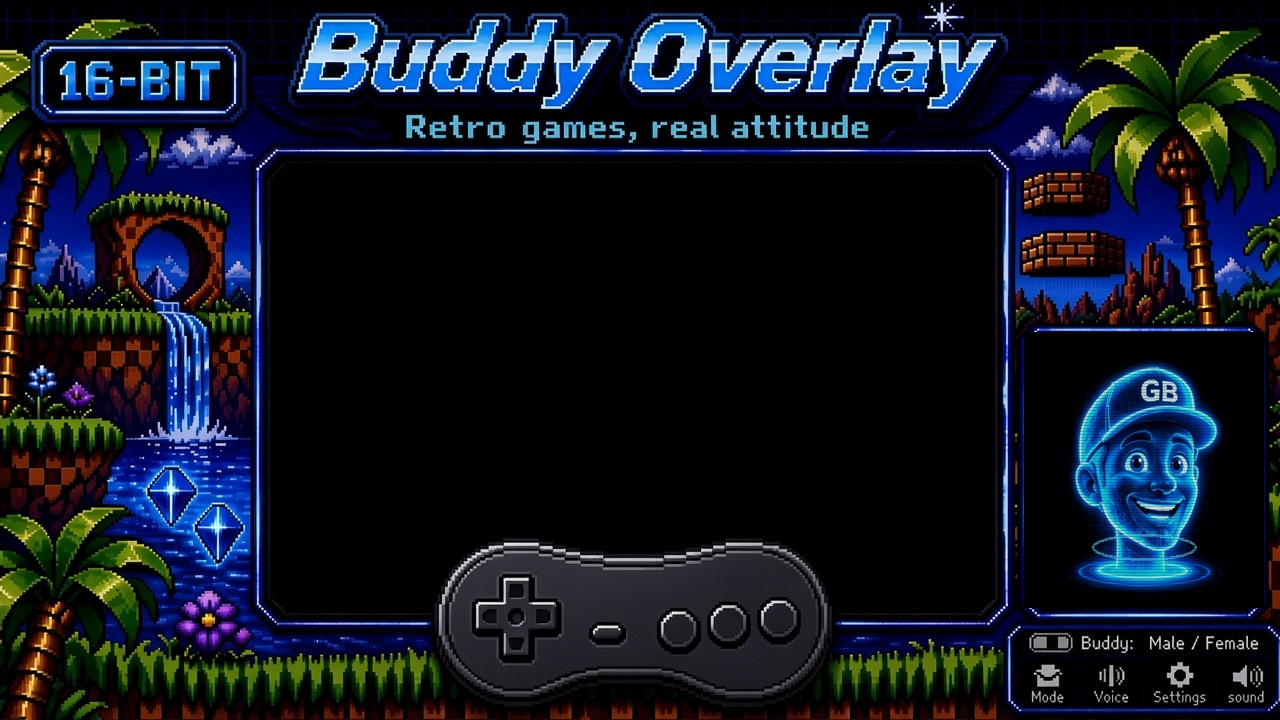
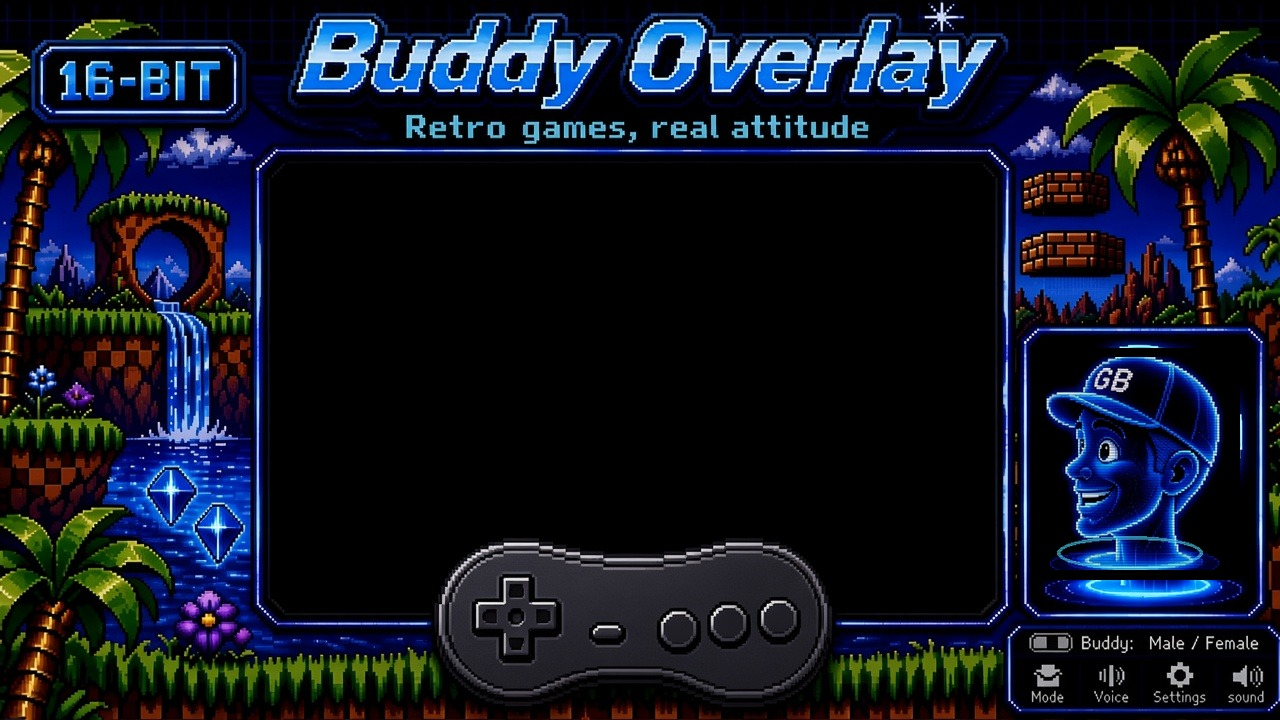
Keep Buddy's rest pose facing left and the portrait bezel visible.
The live head was a front view on a black square that covered the frame. Rest now uses the left profile cut from the approved SNES art, and the head is composited inside the inner well so the bezel stays.

Changed region(s): [[0.7812, 0.4583, 1.0, 0.8556]]

diff --git a/backend/overlay_app.py b/backend/overlay_app.py
@@ -9,9 +9,9 @@ from __future__ import annotations
 import os
 from pathlib import Path
 
-from PIL import Image, ImageDraw
+from PIL import Image
 
-from .frame_library import frame_record, punch_screen, scaled_box, scaled_screen
+from .frame_library import frame_record, paste_head, punch_screen, scaled_box, scaled_screen
 
 
 def chroma_key(image, key=(255, 0, 255, 255)):
@@ -29,15 +29,10 @@ def chroma_key(image, key=(255, 0, 255, 255)):
 
 
 def _prepared_frame(frame_id: str) -> Image.Image:
+    """Punch the game window only. The portrait bezel stays in the art."""
     record = frame_record(frame_id)
     source = Image.open(Path(__file__).resolve().parents[1] / "assets" / "frames" / record["file"])
-    image = punch_screen(source, record["screen"])
-    buddy = record["buddy"]
-    ImageDraw.Draw(image).rectangle(
-        [buddy["x"], buddy["y"], buddy["x"] + buddy["width"] - 1, buddy["y"] + buddy["height"] - 1],
-        fill=(0, 0, 0, 255),
-    )
-    return image
+    return punch_screen(source, record["screen"])
 
 
 def run_overlay(session) -> None:
@@ -54,10 +49,9 @@ def run_overlay(session) -> None:
     root.overrideredirect(True)
     root.geometry("1280x720+40+40")
 
-    holder = {"photo": None, "head": None, "frame": None}
+    holder = {"photo": None, "base": None}
     background = tk.Label(root, bd=0, bg="magenta")
     background.place(x=0, y=0, relwidth=1, relheight=1)
-    head_label = tk.Label(root, bd=0, bg="#000000")
 
     button_style = {
         "bg": "#12121a", "fg": "#f4f4f4", "activebackground": "#2c2c3a",
@@ -124,10 +118,7 @@ def run_overlay(session) -> None:
         width = max(root.winfo_width(), 1)
         height = max(root.winfo_height(), 1)
         frame_id = session.theme if session.theme in {"nes", "snes", "genesis"} else "genesis"
-        buddy = scaled_box(frame_id, "buddy", (width, height))
         menu_box = scaled_box(frame_id, "menu", (width, height))
-        if buddy:
-            head_label.place(x=buddy[0], y=buddy[1], width=buddy[2], height=buddy[3])
         if menu_box:
             menu.place(x=menu_box[0], y=menu_box[1], width=menu_box[2], height=menu_box[3])
             menu.lift()
@@ -136,26 +127,34 @@ def run_overlay(session) -> None:
         frame_id = session.theme if session.theme in {"nes", "snes", "genesis"} else "genesis"
         image = _prepared_frame(frame_id)
         image = image.resize((max(root.winfo_width(), 2), max(root.winfo_height(), 2)))
+        holder["base"] = image
+        _paint()
+
+    def _paint():
+        base = holder.get("base")
+        if base is None:
+            return
+        hud = session.hud()
+        expression = hud["expression"]
+        mouth = hud["mouth"] if hud["mouth"] else (0.55 if expression == "talk" else 0.0)
+        frame_id = session.theme if session.theme in {"nes", "snes", "genesis"} else "genesis"
+        buddy = scaled_box(frame_id, "buddy", base.size)
+        head = render_hologram(
+            expression, t=session.clock.mono(), mouth=mouth, gaze=hud["gaze"],
+            size=max(buddy[2], buddy[3], 64) if buddy else 64,
+            character=hud.get("buddy_character", "male"),
+            resting=hud.get("resting_direction", "left"),
+            from_expression=hud.get("from_expression"), blend=hud.get("expression_blend", 1.0),
+        )
+        frame = paste_head(base, head, {"x": buddy[0], "y": buddy[1], "width": buddy[2], "height": buddy[3]}) if buddy else base
         if os.name == "nt":
-            image = chroma_key(image)
-        holder["frame"] = image
-        holder["photo"] = ImageTk.PhotoImage(image)
+            frame = chroma_key(frame)
+        holder["photo"] = ImageTk.PhotoImage(frame)
         background.configure(image=holder["photo"])
 
     def animate():
         session.tick_animation()
-        hud = session.hud()
-        expression = hud["expression"]
-        mouth = hud["mouth"] if hud["mouth"] else (0.55 if expression == "talk" else 0.0)
-        width = max(head_label.winfo_width(), 64)
-        head = render_hologram(
-            expression, t=session.clock.mono(), mouth=mouth, gaze=hud["gaze"],
-            size=max(width, 64), character=hud.get("buddy_character", "male"),
-            resting=hud.get("resting_direction", "left"),
-            from_expression=hud.get("from_expression"), blend=hud.get("expression_blend", 1.0),
-        )
-        holder["head"] = ImageTk.PhotoImage(head)
-        head_label.configure(image=holder["head"])
+        _paint()
         if session.theme != holder.get("shown"):
             holder["shown"] = session.theme
             redraw_frame()

diff --git a/backend/hologram.py b/backend/hologram.py
@@ -1,9 +1,9 @@
 """Buddy's hologram, drawn from Chris's GB-cap sprite sheets.
 
 Yaw is -1 (strong left, toward the game) through 0 (camera) to +1 (strong right).
-Idle sweeps back and forth around the resting direction. Talking and reactions
-turn him toward the camera. Turns cross-fade between sheets and add a little
-squash, skew, and pedestal parallax so the motion reads as a head turn.
+The default rest is a left profile toward the game window. It stays there while
+idle. Only talking turns the head to face the viewer. Turns cross-fade between
+sheets and add a little squash, skew, and pedestal parallax.
 """
 from __future__ import annotations
 
@@ -54,19 +54,16 @@ def normalize_resting(value: str | None) -> str | None:
 
 
 def yaw_at(t: float, expression: str, resting: str = "left", gaze: str = "center") -> float:
-    """Where the head should point. Reactions face the camera. Idle sweeps."""
-    sweep = math.sin(t * 0.55)
+    """Rest stays in profile. Only talking turns the head toward the viewer."""
+    if expression == "talk":
+        return 0.0
+    drift = 0.05 * math.sin(t * 0.65)
     if resting == "right":
-        idle = 0.2 + sweep * 0.8
-    elif resting == "center":
-        idle = sweep * 0.85
-    else:
-        idle = -0.2 + sweep * 0.8
-    gaze_bias = {"left": -0.12, "right": 0.12}.get(gaze, 0.0)
-    if expression in {"idle", "blink"}:
-        return max(-1.0, min(1.0, idle + gaze_bias))
-    # Face the player while talking or reacting, with a hint of the sweep.
-    return max(-1.0, min(1.0, idle * 0.12 + gaze_bias * 0.25))
+        return min(1.0, 0.9 + drift)
+    if resting == "center":
+        return drift
+    # Left rest is a three-quarter/side profile toward the game, not a front view.
+    return max(-1.0, min(-0.82, -0.92 + drift))
 
 
 def _smooth(value: float) -> float:
@@ -94,9 +91,13 @@ def _pose_sprite(character: str, expression: str, yaw: float, mouth: float) -> I
     side_expr = art.left_expr if yaw < 0 else art.right_expr
     base = _blend_pair(side_turns, magnitude)
     name = _FRONT.get(expression, "neutral")
+    if expression != "talk" and yaw <= -0.75 and art.rest_left is not None:
+        if expression in {"laugh", "shocked", "celebrate"} and name in side_expr:
+            return side_expr[name]
+        return art.rest_left
     if expression == "talk":
-        opened = side_expr["talk"] if magnitude > 0.38 else art.front["talk"]
-        closed = base if magnitude > 0.38 else art.front["neutral"]
+        opened = art.front["talk"]
+        closed = art.front["neutral"]
         level = max(0.0, min(1.0, (mouth - 0.12) / 0.55))
         return Image.blend(closed, opened, level)
     if name in TURN_EXPRESSIONS and magnitude > 0.38 and name in side_expr:
@@ -234,8 +235,10 @@ def _compose(expression: str, t: float, mouth: float, gaze: str, size: int,
              character: str, resting: str) -> Image.Image:
     yaw = yaw_at(t, expression, resting, gaze)
     sprite = _pose_sprite(character, expression, yaw, mouth)
-    sprite = _squash_skew(sprite, yaw)
-    sprite = _parallax(sprite, yaw, t)
+    # The frame cutout is already a side profile. Squash and parallax pull it back toward center.
+    if expression == "talk" or yaw > -0.75:
+        sprite = _squash_skew(sprite, yaw)
+        sprite = _parallax(sprite, yaw, t)
     sprite = _blink(sprite, _blink_amount(t, expression))
     bob = math.sin(t * 1.7) * size * 0.015
     sway = math.sin(t * 0.8) * size * 0.012

diff --git a/tests/test_frames.py b/tests/test_frames.py
@@ -59,6 +59,62 @@ def test_sheets_split_and_turns_keep_gb_readable():
     assert male.right_turns[-1][0] == 1.0
 
 
+def test_approved_composite_keeps_the_bezel():
+    import numpy as np
+    from backend.frame_library import FRAME_DIR, FRAME_FILES, PLACEMENTS, paste_head
+    for frame_id, filename in FRAME_FILES.items():
+        source = Image.open(FRAME_DIR / filename).convert("RGBA")
+        box = PLACEMENTS[frame_id]["buddy"]
+        rest = render_hologram("idle", t=0.4, mouth=0.0, size=280, character="male", resting="left")
+        talk = render_hologram("talk", t=0.4, mouth=0.9, size=280, character="male", resting="left")
+        src = np.asarray(source)
+        mask = np.ones(src.shape[:2], dtype=bool)
+        mask[box["y"]:box["y"] + box["height"], box["x"]:box["x"] + box["width"]] = False
+        for head in (rest, talk):
+            composed = np.asarray(paste_head(source, head, box))
+            assert np.array_equal(src[mask], composed[mask])
+        assert np.asarray(paste_head(source, talk, box)).tobytes() != src.tobytes()
+    # The old SNES box covered this bezel pixel. It has to stay outside the well.
+    snes_box = PLACEMENTS["snes"]["buddy"]
+    assert snes_box["x"] + snes_box["width"] <= 1236
+    assert snes_box["y"] + snes_box["height"] <= 576
+    snes = Image.open(FRAME_DIR / "snes-sky-kingdom.jpg").convert("RGBA")
+    talk = render_hologram("talk", t=0.4, mouth=0.9, size=280, character="male", resting="left")
+    assert paste_head(snes, talk, snes_box).getpixel((1244, 360)) == snes.getpixel((1244, 360))
+
+
+def test_rest_pose_faces_left_until_talking():
+    from backend.hologram import _pose_sprite, yaw_at
+    from backend.hologram_art import frame_rest_pose, get_art
+    for t in (0.0, 0.4, 1.1, 2.2, 3.5, 5.0):
+        assert yaw_at(t, "idle", "left") <= -0.8
+        assert yaw_at(t, "smile", "left") <= -0.8
+        assert abs(yaw_at(t, "talk", "left")) <= 0.05
+    profile = frame_rest_pose()
+    # Male rest is the left profile cut from the approved frame, not the front sheet.
+    assert _pose_sprite("male", "idle", yaw_at(0.3, "idle", "left"), 0).tobytes() == profile.tobytes()
+    assert profile.tobytes() != get_art("male").front["neutral"].tobytes()
+    assert _cap_text_present(profile)
+    female_rest = get_art("female").rest_left
+    assert female_rest.tobytes() != get_art("female").front["neutral"].tobytes()
+    assert _cap_text_present(female_rest)
+    rest = render_hologram("idle", t=0.3, mouth=0.0, size=140, character="male", resting="left")
+    talking = render_hologram("talk", t=0.3, mouth=0.9, size=140, character="male", resting="left")
+    assert rest.tobytes() != talking.tobytes()
+
+
+def _cap_text_present(image) -> bool:
+    import numpy as np
+    array = np.asarray(image.convert("RGBA"))
+    bright = (
+        (array[:, :, 3] > 180)
+        & (array[:, :, 0] > 170)
+        & (array[:, :, 1] > 170)
+        & (array[:, :, 2] > 190)
+    )
+    return int(bright.sum()) > 40
+
+
 def test_hologram_expressions_are_distinct_and_stable():
     idle = render_hologram("idle", t=0.2, mouth=0.0, size=96, character="male", resting="left")
     again = render_hologram("idle", t=0.2, mouth=0.0, size=96, character="male", resting="left")

diff --git a/backend/frame_library.py b/backend/frame_library.py
@@ -42,16 +42,18 @@ SYSTEM_ALIASES = {
 # Portrait and menu, in source pixels. Tuned to the approved art so the live
 # head covers the baked face and the menu sits on the pixel bar under it.
 PLACEMENTS = {
+    # buddy is the inner well only. The bezel and its glow stay outside this rect.
     "genesis": {
-        "buddy": {"x": 1024, "y": 332, "width": 240, "height": 276},
+        "buddy": {"x": 1032, "y": 348, "width": 208, "height": 232},
         "menu": {"x": 1004, "y": 616, "width": 254, "height": 94},
     },
     "nes": {
-        "buddy": {"x": 1020, "y": 340, "width": 240, "height": 258},
+        "buddy": {"x": 1036, "y": 356, "width": 200, "height": 220},
         "menu": {"x": 1004, "y": 606, "width": 260, "height": 102},
     },
     "snes": {
-        "buddy": {"x": 1016, "y": 328, "width": 248, "height": 262},
+        # Inside the black well. x>=1236 and y>=576 are the glowing bezel.
+        "buddy": {"x": 1036, "y": 340, "width": 196, "height": 232},
         "menu": {"x": 996, "y": 598, "width": 264, "height": 110},
     },
 }
@@ -114,6 +116,24 @@ def scale_rect(rect: dict[str, int], target: tuple[int, int]) -> dict[str, int]:
         "width": int(round(rect["width"] * sx)),
         "height": int(round(rect["height"] * sy)),
     }
+
+
+def paste_head(image: Image.Image, head: Image.Image, box: dict[str, int]) -> Image.Image:
+    """Composite a transparent head into the inner well. The bezel stays untouched."""
+    canvas = image.convert("RGBA")
+    x, y, w, h = int(box["x"]), int(box["y"]), int(box["width"]), int(box["height"])
+    # Drop the baked portrait. This rect is the inner well, so the bezel stays.
+    canvas.paste(Image.new("RGBA", (w, h), (0, 0, 0, 255)), (x, y))
+    sprite = head.convert("RGBA")
+    trimmed = sprite.crop(sprite.getbbox()) if sprite.getbbox() else sprite
+    trimmed.thumbnail((max(1, int(w * 0.92)), max(1, int(h * 0.92))), Image.Resampling.LANCZOS)
+    layer = Image.new("RGBA", (w, h), (0, 0, 0, 0))
+    layer.alpha_composite(
+        trimmed,
+        ((w - trimmed.width) // 2, max(0, (h - trimmed.height) // 2)),
+    )
+    canvas.alpha_composite(layer, (x, y))
+    return canvas
 
 
 def punch_screen(image: Image.Image, screen: dict[str, int], threshold: int = 18) -> Image.Image:

diff --git a/backend/hologram_art.py b/backend/hologram_art.py
@@ -56,6 +56,7 @@ class CharacterArt:
     right_turns: list[tuple[float, Image.Image]]
     left_expr: dict[str, Image.Image]
     right_expr: dict[str, Image.Image]
+    rest_left: Image.Image | None = None
     notes: list[str] = field(default_factory=list)
 
 
@@ -396,7 +397,27 @@ def build_character(character: str) -> CharacterArt:
         front_aligned[name] = left_aligned[cursor]
         cursor += 1
     # The right-side front views are the same pictures; keep one set.
-    return CharacterArt(character, front_aligned, left_turns, right_turns, left_expr, right_expr, notes)
+    art = CharacterArt(character, front_aligned, left_turns, right_turns, left_expr, right_expr, notes=notes)
+    if character == "male":
+        # The turn sheet never reaches a side profile. The approved frames do.
+        art.rest_left = frame_rest_pose()
+        art.notes.append("male rest pose is the left profile cut from the approved frame.")
+    else:
+        art.rest_left = left_turns[-1][1]
+        art.notes.append("female rest pose is the left-facing turn profile.")
+    return art
+
+
+def frame_rest_pose() -> Image.Image:
+    """Left-profile head from the approved SNES frame. GB is the original art.
+
+    The crop is the inner well only. The bezel and its glow stay out of the sprite.
+    """
+    from .frame_library import FRAME_DIR, PLACEMENTS
+    box = PLACEMENTS["snes"]["buddy"]
+    image = Image.open(FRAME_DIR / "snes-sky-kingdom.jpg").convert("RGB")
+    x, y, w, h = box["x"], box["y"], box["width"], box["height"]
+    return key_black(image.crop((x, y, x + w, y + h)))
 
 
 def get_art(character: str = "male") -> CharacterArt:

diff --git a/backend/preview_render.py b/backend/preview_render.py
@@ -7,6 +7,7 @@ from pathlib import Path
 
 from PIL import Image, ImageDraw
 
+from .frame_library import FRAME_DIR, FRAME_FILES, PLACEMENTS, paste_head
 from .frames import composite_with_head, render_frame
 from .hologram import EXPRESSIONS, render_hologram
 
@@ -60,6 +61,24 @@ def _on_checker(image: Image.Image) -> Image.Image:
     return plate
 
 
+def render_approved(folder: Path | None = None) -> list[Path]:
+    """Rest pose (left profile) and talking pose (toward the viewer) on each frame."""
+    out = folder or OUT
+    out.mkdir(parents=True, exist_ok=True)
+    written = []
+    rest = render_hologram("idle", t=0.4, mouth=0.0, size=360, character="male", resting="left")
+    talking = render_hologram("talk", t=0.4, mouth=0.85, size=360, character="male", resting="left")
+    for frame_id, filename in FRAME_FILES.items():
+        source = Image.open(FRAME_DIR / filename).convert("RGBA")
+        box = PLACEMENTS[frame_id]["buddy"]
+        rest_path = out / f"approved-{frame_id}.jpg"
+        talk_path = out / f"approved-{frame_id}-talking.jpg"
+        paste_head(source, rest, box).convert("RGB").save(rest_path, quality=92)
+        paste_head(source, talking, box).convert("RGB").save(talk_path, quality=92)
+        written.extend((rest_path, talk_path))
+    return written
+
+
 def render_all(folder: Path | None = None) -> list[Path]:
     out = folder or OUT
     out.mkdir(parents=True, exist_ok=True)
@@ -95,5 +114,7 @@ def render_all(folder: Path | None = None) -> list[Path]:
 
 
 if __name__ == "__main__":
+    for path in render_approved():
+        print(path)
     for path in render_all():
         print(path)

diff --git a/VERIFICATION.md b/VERIFICATION.md
@@ -1,6 +1,6 @@
 # Verification
 
-Run on this machine: `python3 -m pytest tests -q` — 28 passed.
+Run on this machine: `python3 -m pytest tests -q` — 30 passed.
 That does not mean the Windows overlay, microphone, or a live model was tried.
 A feature is listed from what the code does and what the tests check, not from a wish list.
 
@@ -21,7 +21,7 @@ Tested here with pytest. No Windows desktop, microphone, or API key was availabl
 - Window titles are reported as titles, not as "I can see the game." On a non-Windows host the detector says detection needs Windows.
 - The three frames are 1920x1080 PNG files. The game opening is alpha 0. The menu and frame are opaque. Drawn labels do not include Sega, Nintendo, Sonic, Mario, or Zion.
 - The three approved frames map genesis/megadrive, nes/famicom, and snes/sfc. Each screen rectangle is remeasured from the JPG and matches `metadata.json`. The controller overlap stays opaque. 1080p viewports are the 720p rect scaled by 1.5. RetroArch configs set integer scale off and aspect Custom.
-- Official GB-cap sheets are sliced into front expressions and turn poses. Black becomes transparent. Male turn panels face left and stay unmirrored. Female turn panels face right, so her left-facing set is mirrored and the cap letters are redrawn upright (not reversed). Idle sweeps left and right around a resting direction (default left, toward the game). Talk and reactions face the camera. Mouth level swaps the closed and open talk frames. Male and female are separate sprite sets. The display name stays Buddy.
+- Official GB-cap sheets are sliced into front expressions and turn poses. Black becomes transparent. Male turn panels face left and stay unmirrored. Female turn panels face right, so her left-facing set is mirrored and the cap letters are redrawn upright (not reversed). The default rest yaw stays in a left profile toward the game. The male rest sprite is that profile cut from the approved SNES frame, with the cap text left as drawn. Only talking turns the head toward the viewer. The live head is composited inside the portrait well, so the frame's bezel and glow stay. Mouth level swaps the closed and open talk frames. Male and female are separate sprite sets. The display name stays Buddy.
 - Config comments are allowed. A character name of Zion is renamed to Buddy. The sample config has no API key.
 - Ollama requests are built for localhost. A bad HTTP URL is rejected. A fake 401 error has the key redacted.
 - The old short-term cooldown in `BuddyBrain` still blocks chatter a few seconds after a line.
